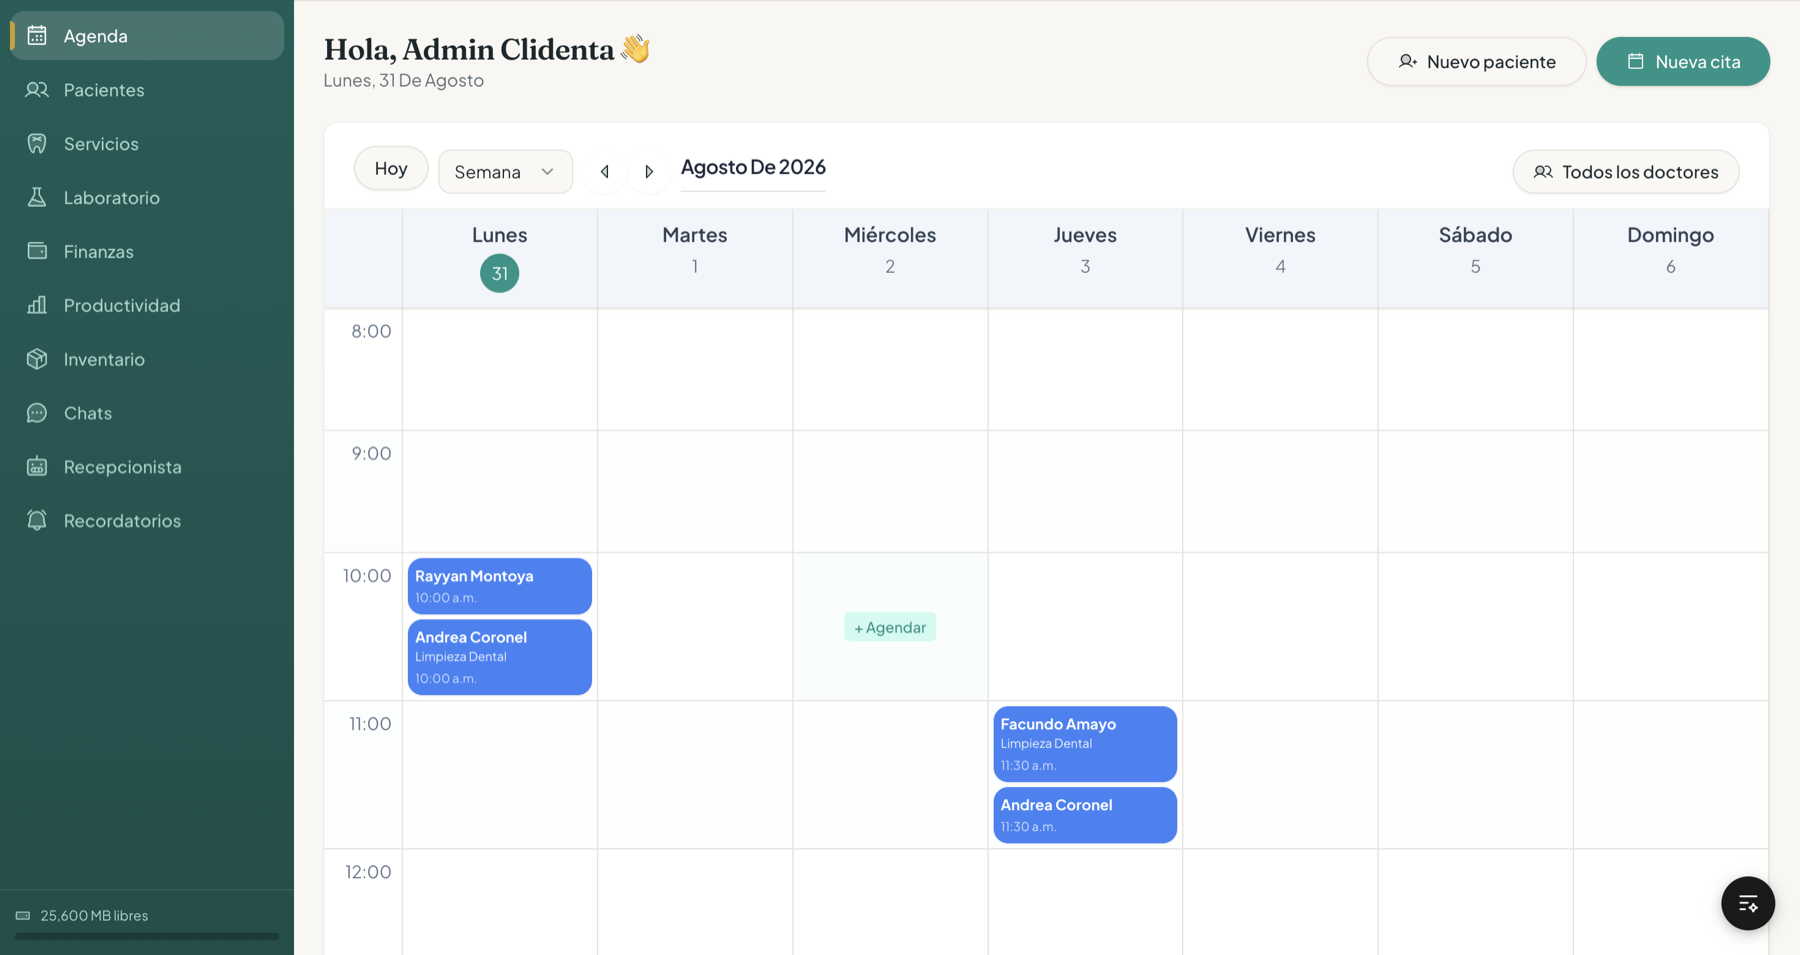
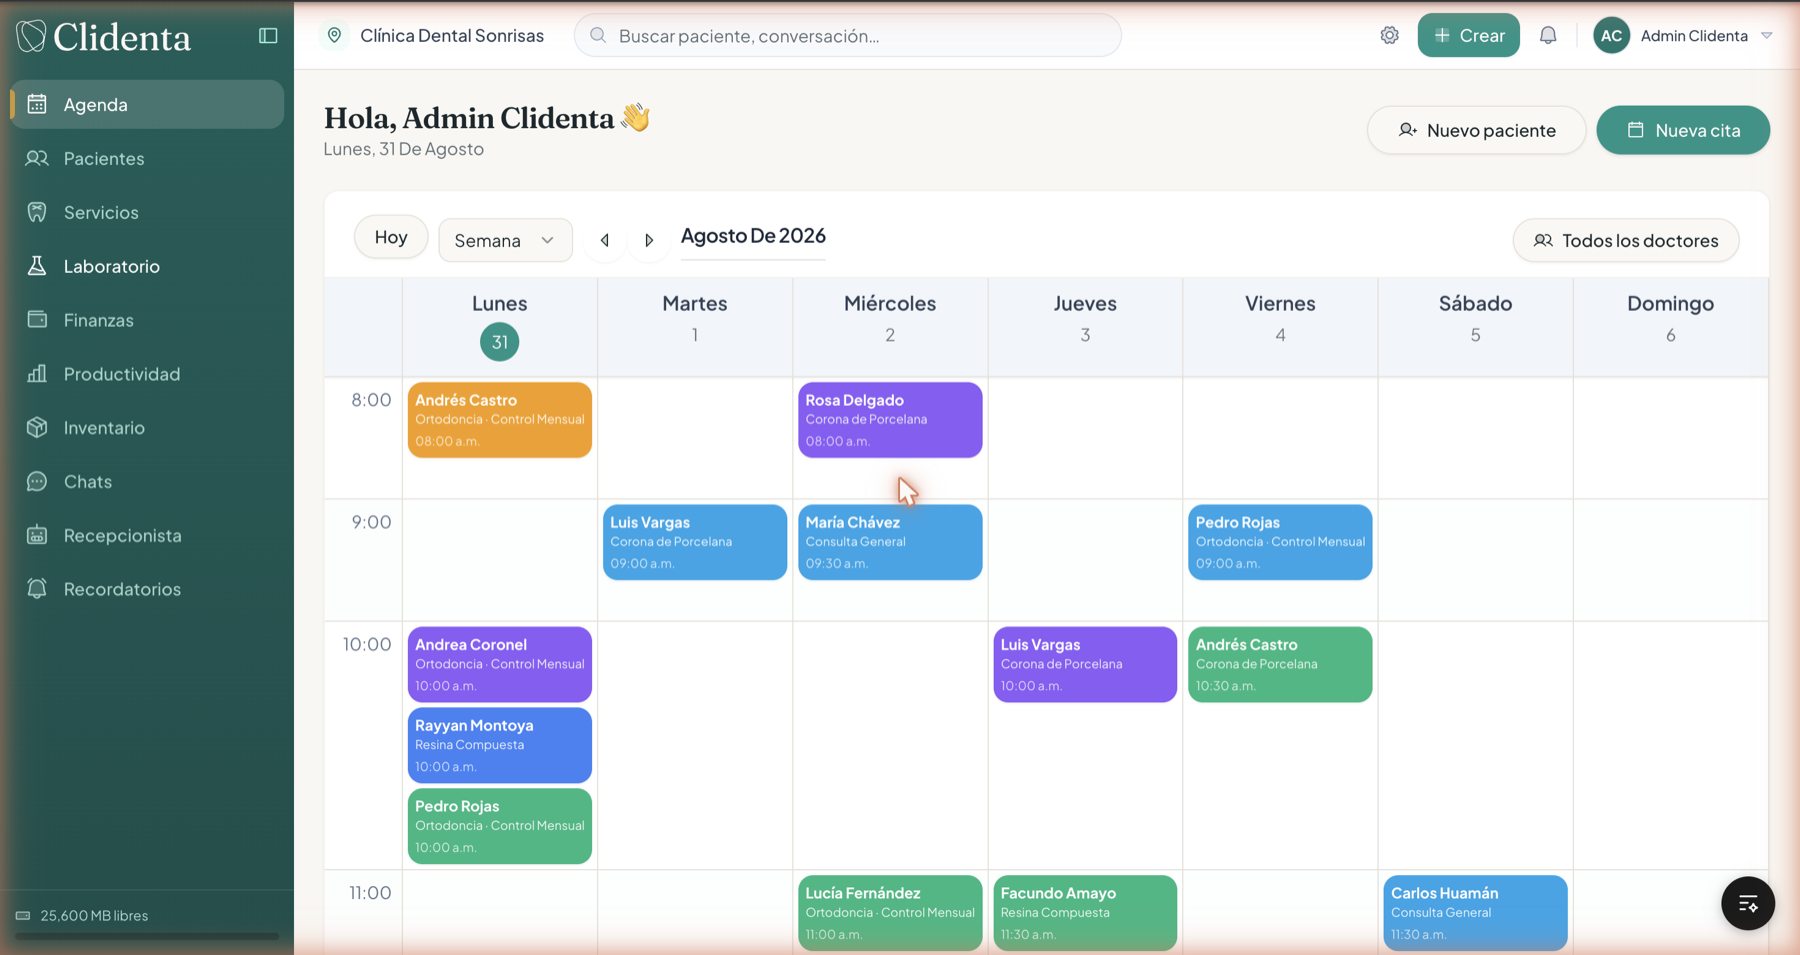
Hero: titular con 'Clínica Dental', eyebrow 'Atención odontólogos del {país}', imagen entre texto y CTA; captura de agenda llena (4 doctores, 25 citas); copy de agenda ajustado

diff --git a/src/sections/Hero.tsx b/src/sections/Hero.tsx
@@ -10,15 +10,17 @@ function countryLabel(code: string): string {
     const flag = code
       .toUpperCase()
       .replace(/./g, (c) => String.fromCodePoint(127397 + c.charCodeAt(0)));
-    return `${name} ${flag}`;
+    // "del Perú / del Ecuador", pero "de México / de Chile"…
+    const article = ['PE', 'EC'].includes(code.toUpperCase()) ? 'del' : 'de';
+    return `${article} ${name} ${flag}`;
   } catch {
-    return 'Perú 🇵🇪';
+    return 'del Perú 🇵🇪';
   }
 }
 
 const Hero: React.FC = () => {
   // Geolocalización por IP para personalizar el badge (fallback: Perú).
-  const [geo, setGeo] = useState('Perú 🇵🇪');
+  const [geo, setGeo] = useState('del Perú 🇵🇪');
 
   useEffect(() => {
     fetch('https://api.country.is/')
@@ -47,14 +49,15 @@ const Hero: React.FC = () => {
 
         {/* Eyebrow */}
         <p className="text-center text-[12px] sm:text-[13px] font-medium tracking-[0.14em] uppercase text-slate-500 mb-6">
-          Sistema de gestión dental + Recepcionista IA · <span className="text-primary">{geo}</span>
+          Atención odontólogos <span className="text-primary">{geo}</span>
         </p>
 
-        {/* Hero Title — corto, 2 líneas máx en desktop */}
-        <h1 className="text-center text-3xl sm:text-4xl md:text-5xl lg:text-[3.4rem] font-serif font-semibold text-slate-900 leading-[1.12] max-w-3xl mx-auto mb-5">
-          Aumenta tu facturación <span className="text-primary">hasta un 60%</span> con una{' '}
+        {/* Hero Title */}
+        <h1 className="text-center text-3xl sm:text-4xl md:text-5xl font-serif font-semibold text-slate-900 leading-[1.15] max-w-4xl mx-auto mb-5">
+          Aumenta la facturación de tu Clínica Dental{' '}
+          <span className="text-primary">hasta un 60%</span> con una{' '}
           <span className="relative whitespace-nowrap text-primary">
-            recepcionista IA
+            Recepcionista IA
             <span className="absolute -bottom-1 left-0 h-[3px] w-full rounded-full bg-gold/70" />
           </span>
         </h1>
@@ -65,18 +68,8 @@ const Hero: React.FC = () => {
           Lista en <span className="text-primary font-semibold">7 días</span>.
         </p>
 
-        {/* CTA */}
-        <div className="flex justify-center mb-12">
-          <button
-            onClick={() => scrollTo('agenda')}
-            className="w-full sm:w-auto bg-primary text-primary-foreground font-semibold px-10 py-4 rounded-xl shadow-sm hover:bg-primary/90 hover:shadow transition-all duration-300 text-lg"
-          >
-            Agendar demostración gratis
-          </button>
-        </div>
-
         {/* Producto real: la agenda de Clidenta */}
-        <div className="max-w-4xl mx-auto">
+        <div className="max-w-4xl mx-auto mb-10">
           <div className="rounded-2xl overflow-hidden ring-1 ring-slate-900/10 shadow-2xl shadow-primary/10 bg-white">
             {/* Barra de navegador */}
             <div className="flex items-center gap-2 px-4 py-2.5 bg-slate-100 border-b border-slate-200/80">
@@ -94,9 +87,16 @@ const Hero: React.FC = () => {
               loading="eager"
             />
           </div>
-          <p className="text-center text-sm text-slate-400 mt-3">
-            Tu agenda real: las citas que cierra la IA aparecen al instante.
-          </p>
+        </div>
+
+        {/* CTA */}
+        <div className="flex justify-center">
+          <button
+            onClick={() => scrollTo('agenda')}
+            className="w-full sm:w-auto bg-primary text-primary-foreground font-semibold px-10 py-4 rounded-xl shadow-sm hover:bg-primary/90 hover:shadow transition-all duration-300 text-lg"
+          >
+            Agendar demostración gratis
+          </button>
         </div>
 
         {/* Scroll indicator */}

diff --git a/src/sections/Agenda.tsx b/src/sections/Agenda.tsx
@@ -17,7 +17,7 @@ const Agenda: React.FC = () => {
           Agenda tu demostración gratuita
         </h2>
         <p className="text-center text-slate-500 mb-6">
-          30 minutos, sin compromiso. Te mostramos tu clínica funcionando con IA.
+          30 minutos, sin compromiso. Te mostramos cómo tu clínica funcionaría con IA.
         </p>
         <div className="rounded-2xl border border-border bg-white shadow-sm p-2 sm:p-4">
           <div style={{ width: '100%', minHeight: '600px' }}>
